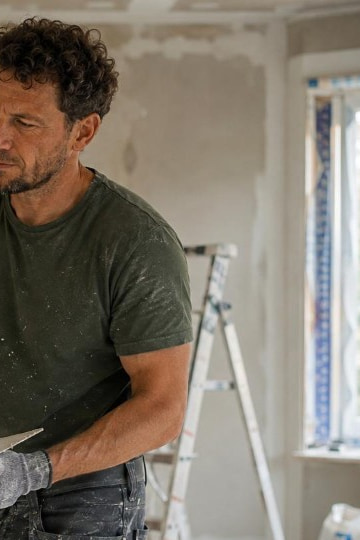
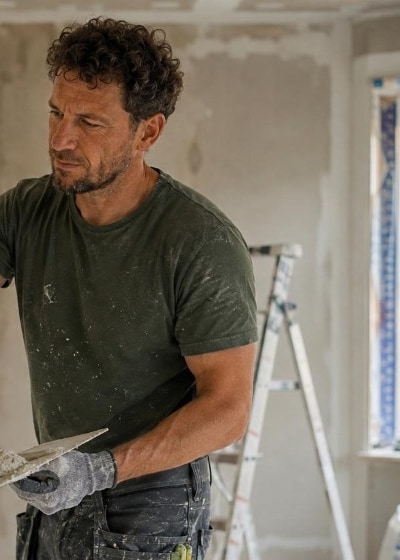
Fix partners mobile hero face crop without wall hand.

diff --git a/css/partners.css b/css/partners.css
@@ -1044,12 +1044,12 @@
     top:56px;
     /* Same original photo, tight extract: face/shoulders/upper body, wall-hand out */
     background-image:image-set(
-      url("/assets/photos/partners-hero-craftsman-mobile.avif?v=17") type("image/avif"),
-      url("/assets/photos/partners-hero-craftsman-mobile.webp?v=17") type("image/webp"),
-      url("/assets/photos/partners-hero-craftsman-mobile.jpg?v=17") type("image/jpeg")
+      url("/assets/photos/partners-hero-craftsman-mobile.avif?v=20") type("image/avif"),
+      url("/assets/photos/partners-hero-craftsman-mobile.webp?v=20") type("image/webp"),
+      url("/assets/photos/partners-hero-craftsman-mobile.jpg?v=20") type("image/jpeg")
     );
     background-size:cover;
-    background-position:18% 8%;
+    background-position:12% 6%;
   }
   .partners-hero-shade{
     top:56px;

diff --git a/partners.html b/partners.html
@@ -23,7 +23,7 @@
 <link rel="preconnect" href="https://fonts.gstatic.com" crossorigin>
 <link href="https://fonts.googleapis.com/css2?family=Inter:wght@400;500;600;700&family=Space+Grotesk:wght@500;600;700&family=Space+Mono:wght@400;700&display=swap" rel="stylesheet">
 <link rel="stylesheet" href="/css/styles.css">
-<link rel="stylesheet" href="/css/partners.css?v=partners-hero-crop-19">
+<link rel="stylesheet" href="/css/partners.css?v=partners-hero-crop-20">
 </head>
 <body class="page-partners">
 <a href="#main" class="skip-link">Ga naar inhoud</a>
